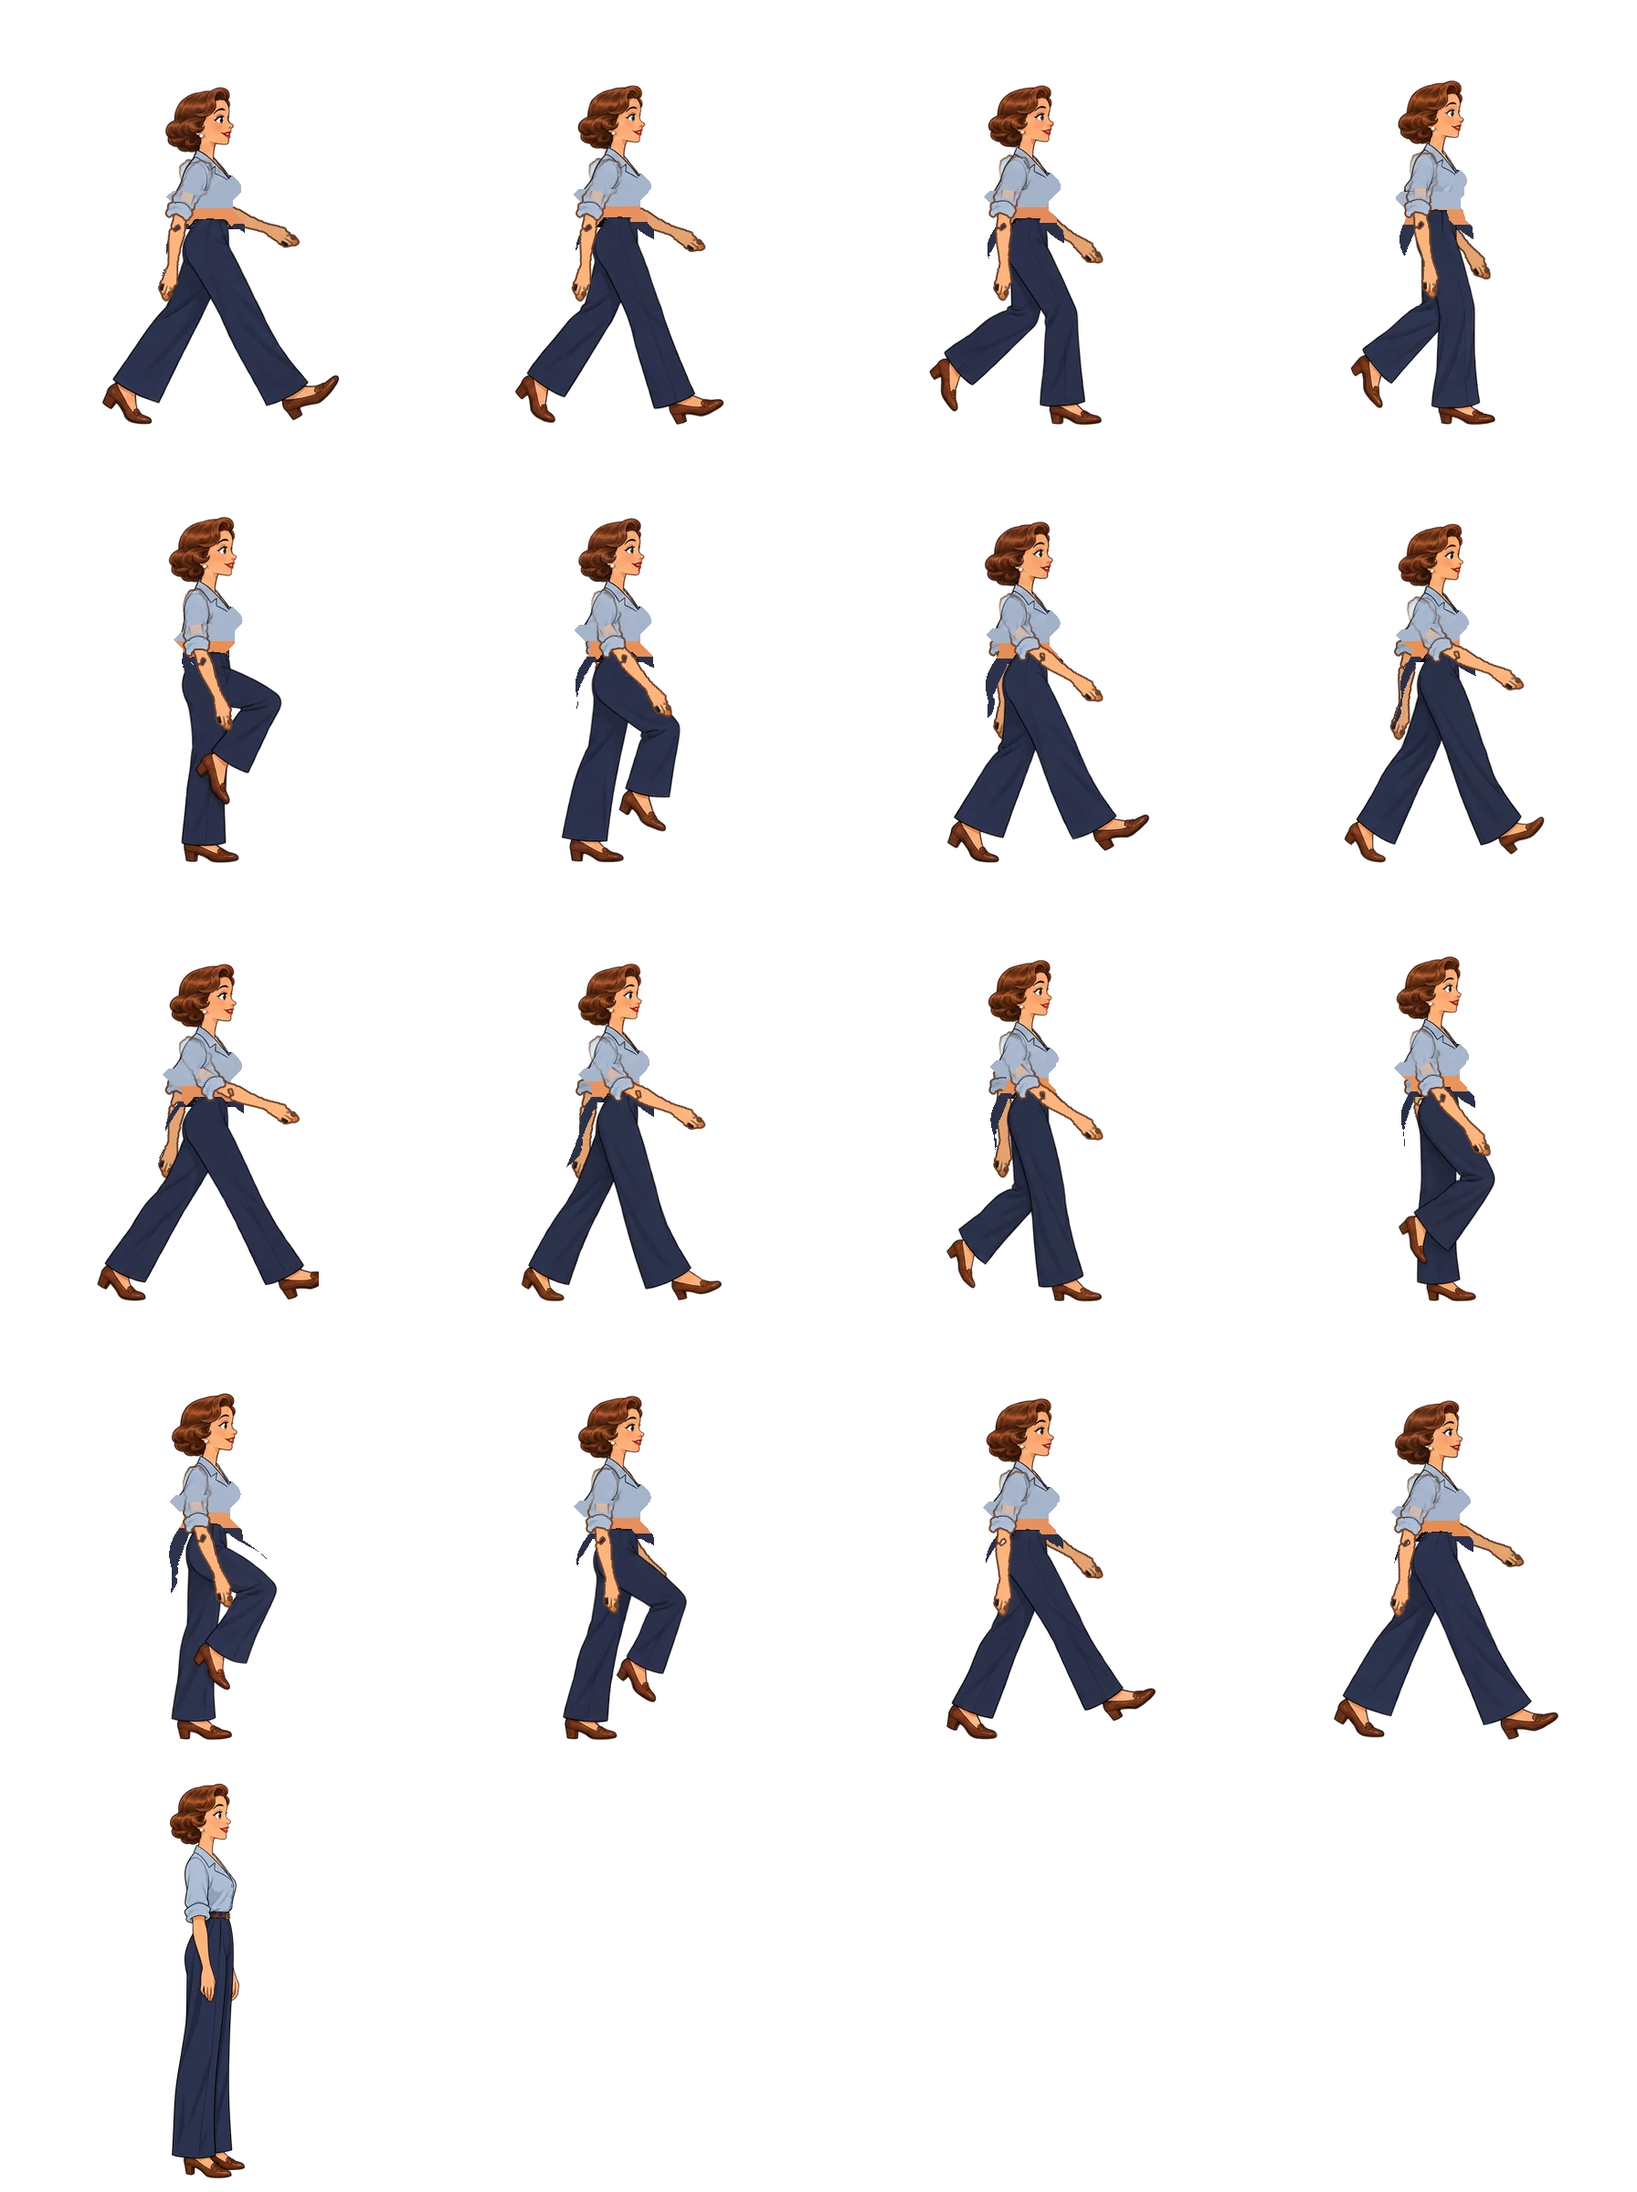
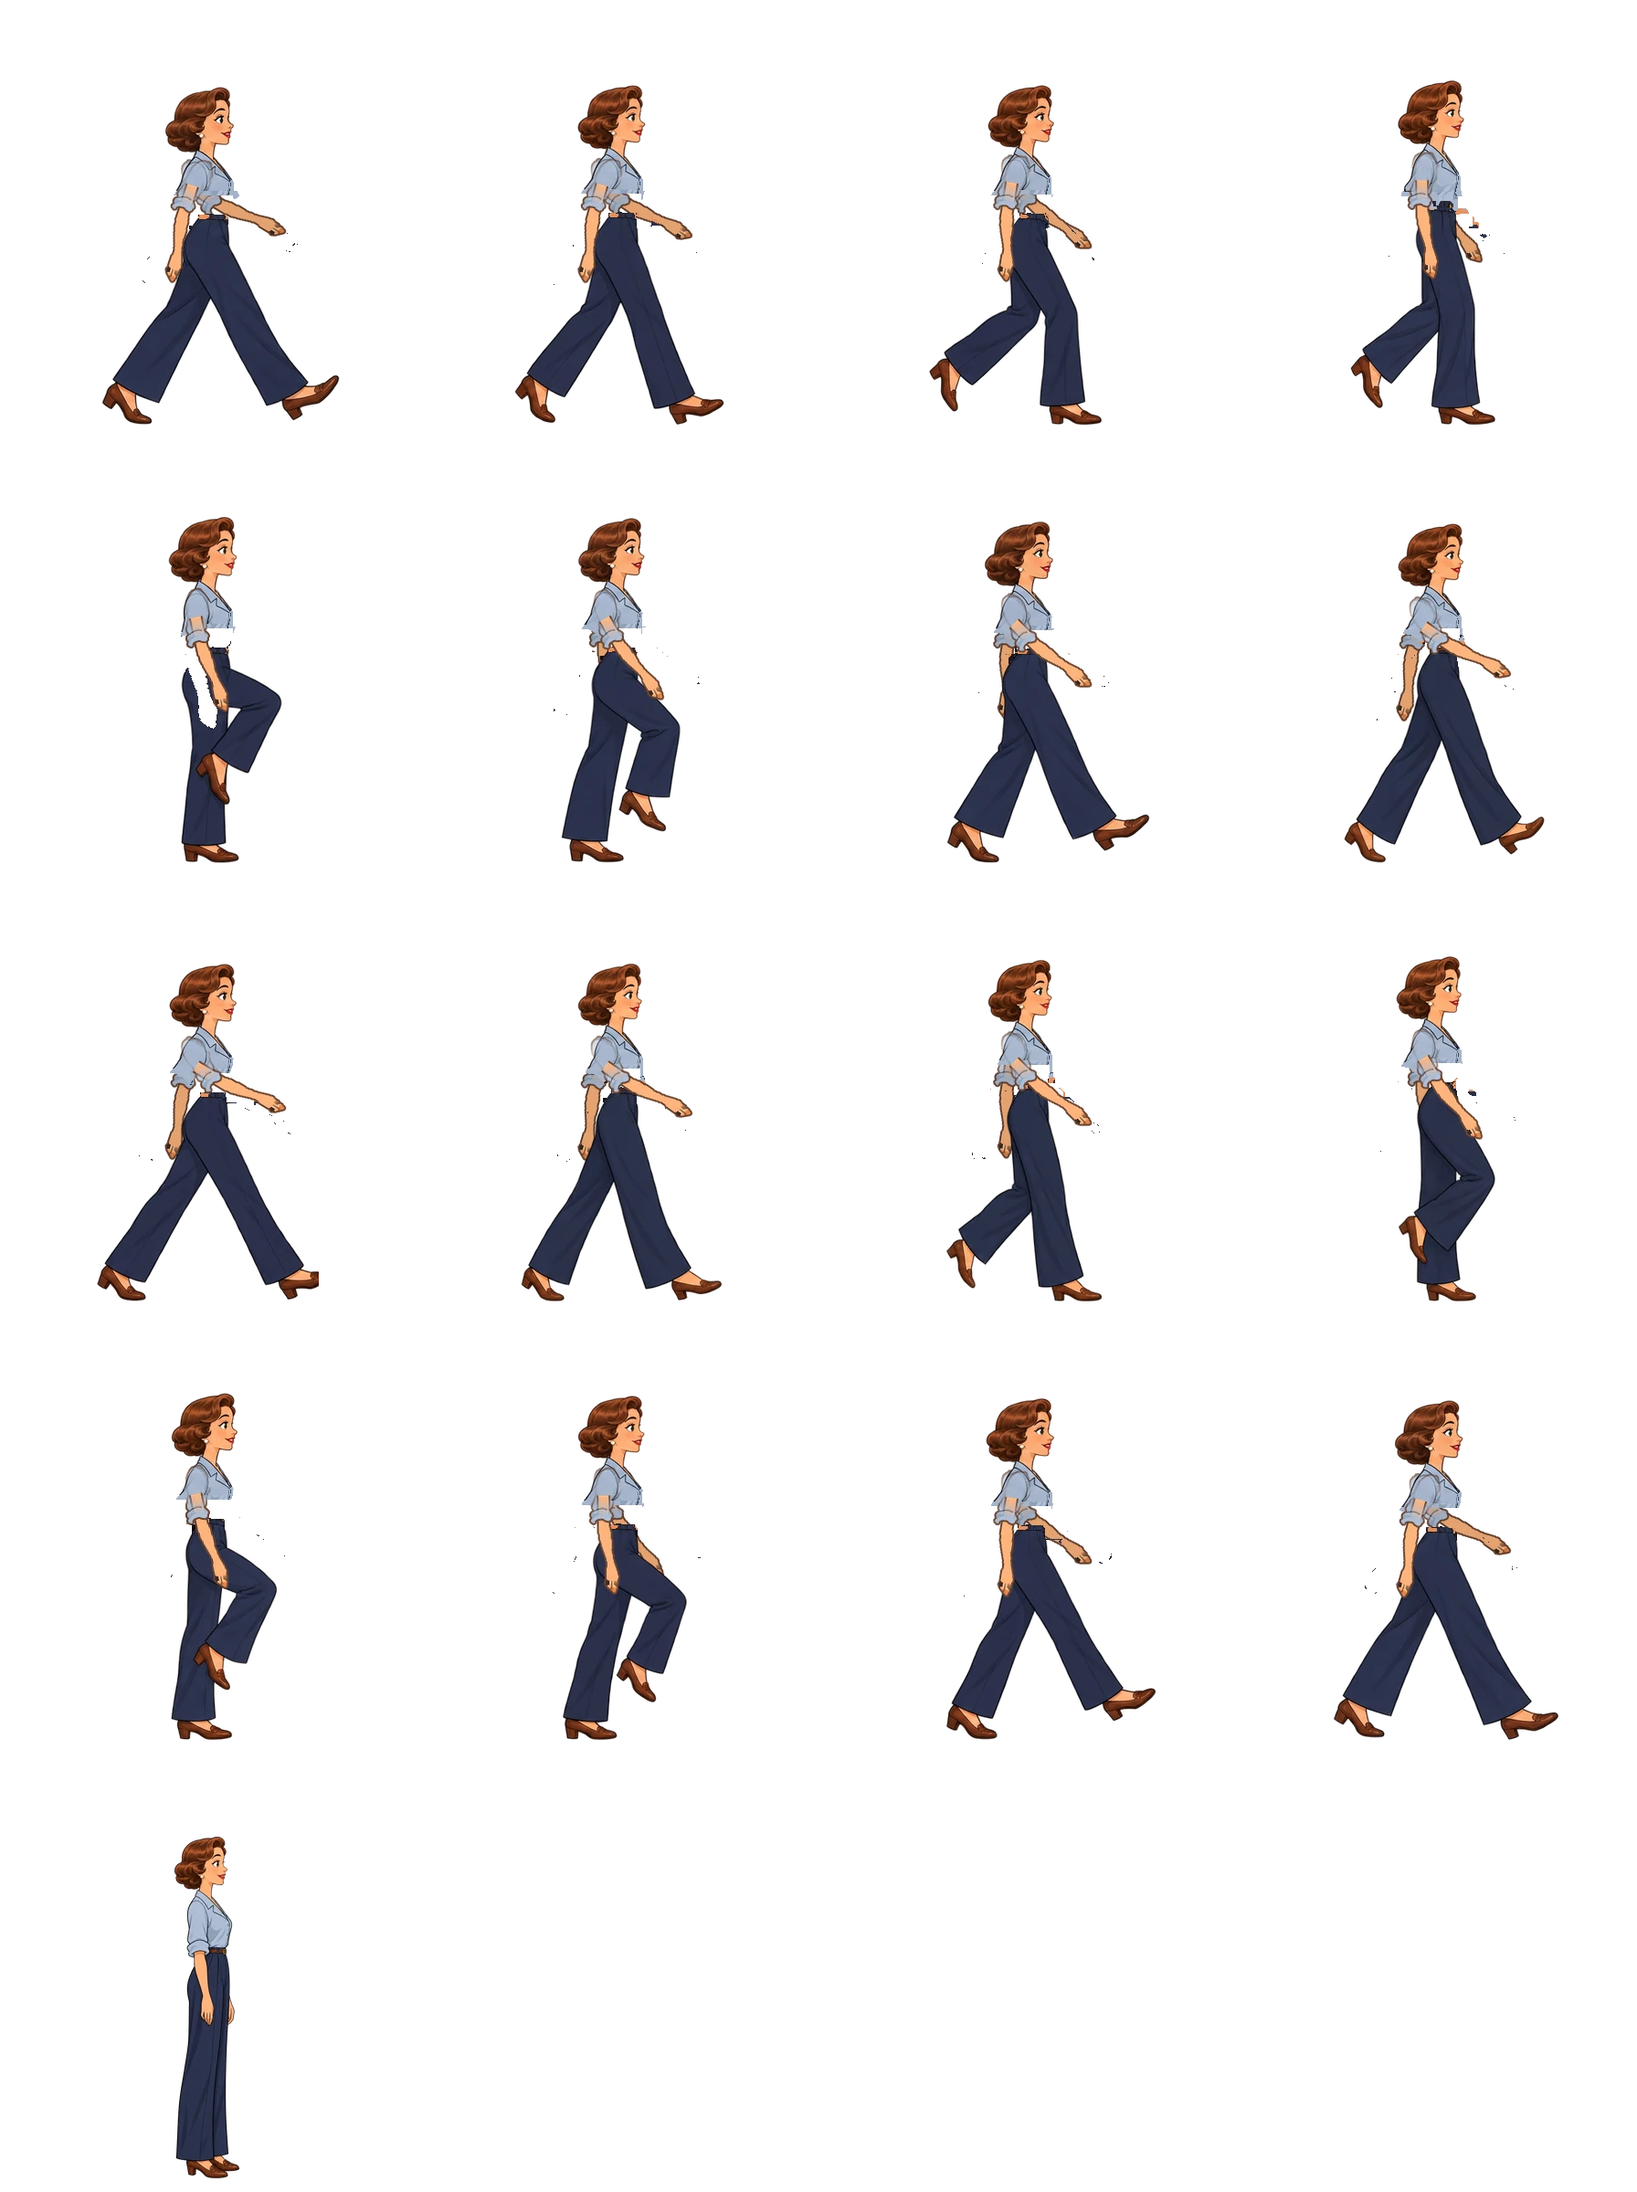
Fix idle-frame scale and torso-repaint artifacts in the white-female walk cycle
The owner reported two visible defects in the committed white-female walk
cycle: the head size popping between frames, and art/texture issues with
her clothing. The raw AI-generated take sheets were checked first and are
clean, so both defects traced to bugs in the local Python compositing
pipeline rather than the generation itself:

- build_sheet.py scaled the idle frame to match the walk frames' head
  PIXEL size rather than their total figure height. Her walk and idle
  source art have different head-to-height ratios (22-23% vs 19.3%), so
  matching head size alone left the idle figure's whole body ~13% taller
  than every walk frame (432px vs 374-384px) -- and since the sprite
  anchors at the soles, that stretch reads as the head popping bigger and
  higher on every walk/idle transition. Now matches total height instead.

- rig_arms.py's torso-repaint step (which erases the AI-drawn arm each
  loop frame and repaints what it covered) painted fabric-coloured flaps
  into open air next to her leg, because its "is this a real hole in the
  clothes" test only checked proximity to surviving body pixels rather
  than whether the original drawing had cloth there. Where a genuine gap
  remained, it fell back to one flat median colour per garment zone,
  reading as an undifferentiated smear with no belt buckle or fold
  shading. Now the patchable hole is bounded to the erase margin
  intersected with real original content, and a texture-donor pass copies
[…]

diff --git a/art/prompts/character-white-female-walk-cycle-fix.md b/art/prompts/character-white-female-walk-cycle-fix.md
@@ -1,0 +1,83 @@
+# White-female walk cycle: pipeline bug fix (2026-09-23)
+
+Status: **fixed locally in `art/generated/walk-cycle-white-female/`, not yet promoted to `public/`.**
+
+## The complaint
+
+The owner flagged two visible problems with the committed white-female walk cycle
+(`public/assets/characters/player/white-female-walk.webp` + `public/data/walk-cycle-white-female.json`):
+
+1. Head size shifts between frames.
+2. Art/texture issues with her clothing.
+
+## What was actually wrong
+
+Before regenerating any new AI art, the raw generated take sheets
+(`half-A-take1-clean.png` etc.) were checked and are clean -- consistent head size, a
+crisp thin belt, no texture noise. Both defects turned out to be bugs in the local
+Python compositing pipeline (`tools/build_sheet.py`, `tools/rig_arms.py`), not the
+generation:
+
+1. **Idle-frame scale.** `build_sheet.py` scaled the idle frame to match the walk
+   frames' *head pixel size* rather than their *total figure height*. Her walk
+   half-sheets and her idle reference were drawn with different head-to-height ratios
+   (22-23% vs 19.3%), so matching head size alone left the idle figure's whole body
+   about 13% taller than every walk frame (432px vs 374-384px, measured on the
+   committed sheet). Since the sprite is anchored at the soles, that stretch reads as
+   the head popping bigger and higher every time she starts or stops walking -- the
+   "head size shifts" complaint. Fixed by matching total height instead (see the
+   comment in `build_sheet.py`); the idle frame now measures 374px, in range with the
+   walk frames.
+2. **Torso repaint (the belt).** `rig_arms.py` erases the AI-drawn arm in every loop
+   frame and repaints a rigged pendulum arm on top; whatever the erase exposed under
+   the old arm gets patched back in. Its patch logic had two bugs: the "is this a
+   real hole in the clothes" test only checked whether the target pixel was *near*
+   surviving body pixels, not whether the original drawing actually had cloth there,
+   so it painted a trouser-coloured flap into open air next to her leg on some
+   frames; and the same check didn't exclude the erased arm's own bulk, so a later
+   texture patch (see next point) could paint clean fabric across the whole
+   former-sleeve shape instead of just the small real gap. Fixed by bounding the
+   patchable hole to the erase margin (`erased & ~removed`, matching the belt/trouser
+   *restore* step already next to it) intersected with where the original,
+   undamaged frame had solid content (`orig[..., 3] > 200`).
+3. **Flat, texture-less patch fill.** Where a real gap remains, the code fell back to
+   one flat median colour per garment zone (blouse/belt/trousers), which read as an
+   undifferentiated smear with no buckle or fold shading. Added a texture-donor step
+   before that fallback: real pixels are copied from the idle frame's own torso
+   (whose arm never covers the belt), aligned by each frame's own torso reference, so
+   a genuine hole gets the belt buckle and fold shading back instead of a flat patch.
+   The donor's own arm/hand pixels are excluded from what can be copied (an earlier
+   version of this fix pasted a band of skin tone across the waist by accident).
+
+## What changed
+
+- `art/generated/walk-cycle-white-female/tools/build_sheet.py` -- idle scaled to the
+  walk frames' mean total height instead of matching head pixel size.
+- `art/generated/walk-cycle-white-female/tools/rig_arms.py` -- `rebuild_torso`'s hole
+  detection tightened to erase-margin-with-real-content only, plus a donor-copy pass
+  from the idle frame before the flat-fill fallback.
+- Re-ran the existing pipeline (`build_sheet.py` -> `smooth_upper_body.py` ->
+  `rig_arms.py` -> `package.py`) on the *same* already-generated take sheets and the
+  *same* frame picks (verified identical in `walk-meta.json`'s `picks`/`feet`/`dx` --
+  only the idle foot position shifted slightly, from the idle rescale). No new AI
+  generation was used; `strideWorld` and `displayScale` are unchanged, so gameplay
+  timing is unaffected.
+- Regenerated `white-female-walk-master.png`, `white-female-walk.webp`,
+  `walk-cycle-white-female.json`, `walk-meta.json`, `review-contact-sheet.png`,
+  `review-walk-preview.gif` in `art/generated/walk-cycle-white-female/` (not yet
+  copied over `public/`).
+
+## Known remaining minor issues
+
+- A handful of single-pixel dark specks remain floating near a few frames' hands
+  (pre-existing, not introduced by this fix; sub-pixel at gameplay scale).
+- One frame (loop frame 4) still shows a faint, slightly-flatter patch above the belt
+  on her far side; far smaller and less visible than the original defect, not chased
+  further.
+
+## Promotion
+
+Not yet done. Review `art/generated/walk-cycle-white-female/review-contact-sheet.png`
+and `review-walk-preview.gif`, then copy
+`white-female-walk.webp` -> `public/assets/characters/player/white-female-walk.webp`
+and `walk-cycle-white-female.json` -> `public/data/walk-cycle-white-female.json`.
